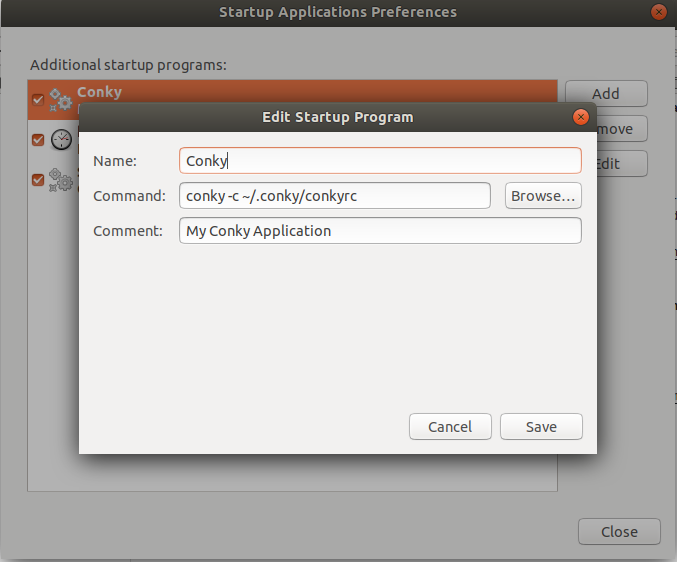
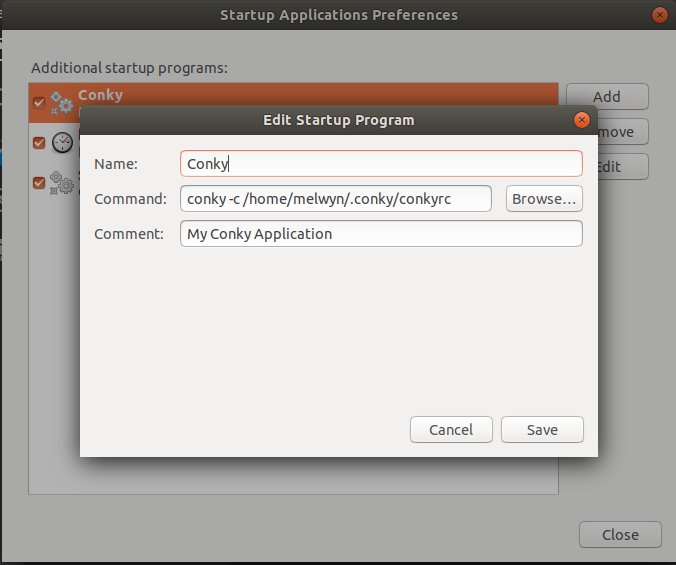
Fixed startup application instructions

diff --git a/README.md b/README.md
@@ -8,7 +8,7 @@ This is my conky implementation
 1. Copy all the files in that directory.
 1. If you are using Ubuntu then all following entry in startup application.
     1. Name: Conky
-    1. Command: conky -c ~/.conky/conkyrc
+    1. Command: conky -c /home/<Home directory name>/.conky/conkyrc
 
 ![Adding Conky to Startup](pix/Startup-Screen.png)
 
